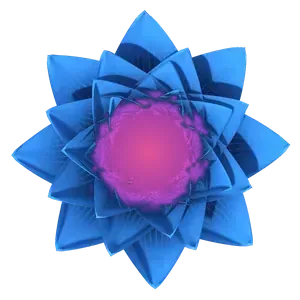
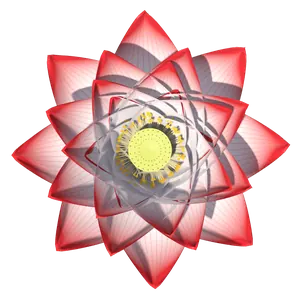
Lotus: volta a flor vermelha com miolo amarelo, 20% menor, no lugar em que aparecia
- Tira as ondas sonoras e o miolo rosa; a flor padrão passa a ser a vermelha com miolo amarelo
- Luz, raios e flor juntos, com o mesmo centro, no ponto onde a flor vermelha aparecia
- Tamanho explícito nos quadros (o Android desenhava a imagem no tamanho original, 300)
- Flor com 240 (antes aparecia com 300)

Claude-Session: https://claude.ai/code/session_01XJ8bKKm3arNhAerQKpBbQ5

diff --git a/src/components/LotusFlower.js b/src/components/LotusFlower.js
@@ -4,70 +4,21 @@ import FRAMES, { FAB, LIGHT } from './lotus/frames';
 
 // Flor de lótus da Lotus em 3D (quadros em assets/lotus, gerados por tools/lotus3d).
 
-const SIZE = 166; // a flor é vista de frente (de cima), formando um círculo no centro da caixa
-const STAGE = 250; // faixa da caixa onde a flor fica, sempre centralizada
-const HALO = Math.round(SIZE * 1.75); // luz branca atrás da flor
-const RAYS = Math.round(SIZE * 2.1); // raios de luz que giram devagar
-// Ajuste fino da posição na caixa (no celular ela aparecia um pouco à direita e para baixo).
+// Posição: a flor fica no ponto em que a Lotus vermelha aparecia no celular (aprovado pelo
+// Evandro), com a luz, os raios e a flor juntos, todos com o mesmo centro.
+const BOX = 166; // quadro de referência dentro da caixa (não mexer: define a posição)
+const ANCHOR = 150; // centro da flor dentro desse quadro
+const SIZE = 240; // tamanho da flor (20% menor do que aparecia)
+const STAGE = 250; // faixa da caixa onde a flor fica
+const HALO = Math.round(SIZE * 1.5); // luz branca atrás da flor
+const RAYS = Math.round(SIZE * 1.8); // raios de luz que giram devagar
 const NUDGE_X = -8;
 const NUDGE_Y = -14;
-// Ondas sonoras douradas em círculo, no lugar do antigo miolo amarelo. Cada barrinha nasce perto
-// do centro e cresce/diminui para fora, sempre dentro do miolo escuro (nunca passa desse limite).
-const WAVE_N = 28;
-const WAVE_IN = SIZE * 0.04; // onde as barrinhas começam (perto do centro)
-const WAVE_OUT = SIZE * 0.14; // limite de fora (borda do miolo escuro)
-const WAVE_L = WAVE_OUT - WAVE_IN; // comprimento máximo
-const WAVE_W = 2.4;
-// O miolo escuro da flor aberta fica um tiquinho à esquerda e para baixo do meio da imagem
-// (medido nos quadros: 148,3 x 152,2 de 300). As ondas usam esse ponto como centro.
-const WAVE_CX = SIZE * (148.3 / 300);
-const WAVE_CY = SIZE * (152.2 / 300);
-
-// O círculo de ondas cresce e diminui por igual, com uma tremulação leve em cada barrinha;
-// com voz elas crescem mais e mais rápido, em silêncio ficam baixinhas.
-const STEPS = 24;
-const T_IN = [...Array(STEPS + 1)].map((_, k) => k / STEPS);
-function SoundRing({ voice, active, show }) {
-  const t = useRef(new Animated.Value(0)).current;
-  useEffect(() => {
-    t.setValue(0);
-    const loop = Animated.loop(Animated.timing(t, { toValue: 1, duration: active ? 650 : 2400, easing: Easing.linear, useNativeDriver: true }));
-    loop.start();
-    return () => loop.stop();
-  }, [active]);
-  const amp = voice.interpolate({ inputRange: [0, 1], outputRange: [0.35, 1], extrapolate: 'clamp' });
-  const bars = useMemo(
-    () =>
-      [...Array(WAVE_N)].map((_, i) => {
-        // O círculo inteiro pulsa junto (fica sempre redondo e centrado) e cada barrinha
-        // ainda tremula um pouco, em 6 ondinhas iguais em volta, para parecer onda sonora.
-        const phase = (i * 6) / WAVE_N;
-        const pulse = t.interpolate({ inputRange: T_IN, outputRange: T_IN.map((k) => 0.5 + 0.5 * Math.sin(2 * Math.PI * k)) });
-        const ripple = t.interpolate({ inputRange: T_IN, outputRange: T_IN.map((k) => 0.5 + 0.5 * Math.sin(2 * Math.PI * (2 * k + phase))) });
-        const osc = Animated.add(Animated.multiply(pulse, 0.65), Animated.multiply(ripple, 0.35));
-        // tamanho de 0.2 (baixinha) a 1 (encosta no limite do miolo)
-        const s = Animated.add(0.2, Animated.multiply(Animated.multiply(osc, amp), 0.8)).interpolate({ inputRange: [0, 1], outputRange: [0.2, 1], extrapolate: 'clamp' });
-        // mantém a ponta de dentro parada: a barrinha cresce só para fora
-        const ty = s.interpolate({ inputRange: [0, 1], outputRange: [WAVE_L / 2, 0] });
-        return { deg: `${(i * 360) / WAVE_N}deg`, s, ty };
-      }),
-    [],
-  );
-  return (
-    <View pointerEvents="none" style={[StyleSheet.absoluteFill, { opacity: show ? 1 : 0 }]}>
-      {bars.map((b, i) => (
-        <View key={i} style={[styles.waveBox, { transform: [{ rotate: b.deg }] }]}>
-          <Animated.View style={[styles.wave, { transform: [{ translateY: b.ty }, { scaleY: b.s }] }]} />
-        </View>
-      ))}
-    </View>
-  );
-}
 
 // Cores da flor conforme o assunto da conversa.
 export const MOODS = {
-  // Padrão do Realys: preto por dentro, azul em volta e dourado no meio.
-  padrao: { back: '#0E1A3A', mid: '#2F86FF', front: '#7DB8FF', center: '#E2B649', shineBack: 'rgba(47,134,255,0.5)', shineMid: 'rgba(125,184,255,0.7)', glow: 'rgba(226,182,73,0.22)', seed: '#E2B649', icon: '#E2B649' },
+  // Padrão: a Lotus vermelha com o miolo amarelo.
+  padrao: { back: '#C62828', mid: '#E53935', front: '#FF8A80', center: '#FFE1DE', shineBack: 'rgba(255,170,160,0.5)', shineMid: 'rgba(255,215,210,0.7)', glow: 'rgba(248,113,113,0.30)', seed: '#FFF1C1', icon: '#C62828' },
   agro: { back: '#2E9E62', mid: '#4CBF7E', front: '#A7E8BF', center: '#E6F9EE', shineBack: 'rgba(190,240,205,0.55)', shineMid: 'rgba(225,250,232,0.7)', glow: 'rgba(110,231,160,0.24)', seed: '#FDE7A8', icon: '#1E7A48' },
   sos: { back: '#C62828', mid: '#E53935', front: '#FF8A80', center: '#FFE1DE', shineBack: 'rgba(255,170,160,0.5)', shineMid: 'rgba(255,215,210,0.7)', glow: 'rgba(248,113,113,0.30)', seed: '#FFF1C1', icon: '#C62828' },
   shop: { back: '#B8860B', mid: '#D4A017', front: '#F5D272', center: '#FFF5D6', shineBack: 'rgba(255,230,160,0.55)', shineMid: 'rgba(255,245,210,0.75)', glow: 'rgba(253,210,100,0.30)', seed: '#FFFFFF', icon: '#A8790A' },
@@ -97,7 +48,7 @@ function Pollen({ x, delay, active }) {
       style={[
         styles.pollen,
         {
-          left: SIZE / 2 - 2 + x,
+          left: ANCHOR - 2 + x,
           opacity: t.interpolate({ inputRange: [0, 0.2, 1], outputRange: [0, 1, 0] }),
           transform: [
             { translateY: t.interpolate({ inputRange: [0, 1], outputRange: [0, -90] }) },
@@ -266,10 +217,9 @@ export default function LotusFlower({ phase, level, onPress, visible = true, moo
                 source={src}
                 fadeDuration={0}
                 resizeMode="contain"
-                style={[StyleSheet.absoluteFill, { opacity: frame.kind === k && frame.i === i ? 1 : 0 }]}
+                style={[styles.frame, { opacity: frame.kind === k && frame.i === i ? 1 : 0 }]}
               />
             ))}
-            {mood === 'padrao' ? <SoundRing voice={voice} active={active} show={frame.kind === 'idle' || frame.i >= 4} /> : null}
           </Animated.View>
         </Pressable>
         {pollen.map((p, i) => (
@@ -362,13 +312,12 @@ const styles = StyleSheet.create({
   // Faixa da largura inteira da caixa; a flor fica no meio exato, na horizontal e na vertical.
   stage: { alignSelf: 'stretch', height: STAGE, alignItems: 'center', justifyContent: 'center' },
   // Luz, raios e flor ficam todos no mesmo quadro, com o mesmo centro exato.
-  center: { width: SIZE, height: SIZE, transform: [{ translateX: NUDGE_X }, { translateY: NUDGE_Y }] },
-  // caixa de giro com o centro exatamente no meio do miolo escuro
-  waveBox: { position: 'absolute', left: 0, top: 0, width: WAVE_CX * 2, height: WAVE_CY * 2 },
-  wave: { position: 'absolute', left: WAVE_CX - WAVE_W / 2, top: WAVE_CY - WAVE_IN - WAVE_L, width: WAVE_W, height: WAVE_L, borderRadius: WAVE_W / 2, backgroundColor: '#FFC928' },
-  halo: { position: 'absolute', width: HALO, height: HALO, left: (SIZE - HALO) / 2, top: (SIZE - HALO) / 2 },
-  rays: { position: 'absolute', width: RAYS, height: RAYS, left: (SIZE - RAYS) / 2, top: (SIZE - RAYS) / 2 },
-  wrap: { position: 'absolute', left: 0, top: 0, width: SIZE, height: SIZE },
+  center: { width: BOX, height: BOX, transform: [{ translateX: NUDGE_X }, { translateY: NUDGE_Y }] },
+  halo: { position: 'absolute', width: HALO, height: HALO, left: ANCHOR - HALO / 2, top: ANCHOR - HALO / 2 },
+  rays: { position: 'absolute', width: RAYS, height: RAYS, left: ANCHOR - RAYS / 2, top: ANCHOR - RAYS / 2 },
+  wrap: { position: 'absolute', left: ANCHOR - SIZE / 2, top: ANCHOR - SIZE / 2, width: SIZE, height: SIZE },
   flower: { position: 'absolute', left: 0, top: 0, width: SIZE, height: SIZE },
-  pollen: { position: 'absolute', top: SIZE / 2 - 2, width: 4, height: 4, borderRadius: 2, backgroundColor: '#FDE68A' },
+  // tamanho explícito em cada quadro: sem isso o Android desenhava a imagem no tamanho original
+  frame: { position: 'absolute', left: 0, top: 0, width: SIZE, height: SIZE },
+  pollen: { position: 'absolute', top: ANCHOR - 2, width: 4, height: 4, borderRadius: 2, backgroundColor: '#FDE68A' },
 });

diff --git a/tools/lotus3d/gen.py b/tools/lotus3d/gen.py
@@ -1,14 +1,14 @@
 import json, math, subprocess, os
-moods={'padrao':('#0E1A3A','#2F86FF','#030305'),'agro':('#F6FFF4','#3FA862','#E9F0B8'),'sos':('#FFF2F0','#D3262B','#F6E3B4'),'shop':('#FFFBEF','#D9A21B','#F8EDB0')}
+moods={'padrao':('#FFF2F0','#D3262B','#F6E3B4'),'agro':('#F6FFF4','#3FA862','#E9F0B8'),'sos':('#FFF2F0','#D3262B','#F6E3B4'),'shop':('#FFFBEF','#D9A21B','#F8EDB0')}
 jobs=[]
 os.makedirs('raw',exist_ok=True)
 for m,(body,tip,base) in moods.items():
     for i in range(8):
         t=i/7; b=0.5-0.5*math.cos(math.pi*t)
-        jobs.append({'f':f'raw/{m}_bloom_{i:02d}.png','o':{'b':b,'pad':False,'elev':90,'dist':5.2,'target':0.2,'body':body,'tip':tip,'base':base,'gold':m=='padrao'}})
+        jobs.append({'f':f'raw/{m}_bloom_{i:02d}.png','o':{'b':b,'pad':False,'elev':90,'dist':5.2,'target':0.2,'body':body,'tip':tip,'base':base,'gold':False}})
     for i in range(6):
         a=2*math.pi*i/6
-        jobs.append({'f':f'raw/{m}_idle_{i:02d}.png','o':{'b':1-0.035*(1-math.cos(a)),'pad':False,'elev':90,'dist':5.2,'target':0.2,'rot':2.5*math.sin(a),'body':body,'tip':tip,'base':base,'gold':m=='padrao'}})
+        jobs.append({'f':f'raw/{m}_idle_{i:02d}.png','o':{'b':1-0.035*(1-math.cos(a)),'pad':False,'elev':90,'dist':5.2,'target':0.2,'rot':2.5*math.sin(a),'body':body,'tip':tip,'base':base,'gold':False}})
 for i,b in enumerate([0.55,1.0]):
     jobs.append({'f':f'raw/fab_{i}.png','o':{'b':b,'pad':False,'elev':90,'dist':5.2,'target':0.2,'body':'#163A8C','tip':'#4FA3FF','base':'#07080D','gold':True}})
 open('jobs.json','w').write(json.dumps(jobs))

diff --git a/tools/lotus3d/render.py b/tools/lotus3d/render.py
@@ -16,11 +16,8 @@ with sync_playwright() as p:
         # recorte quadrado fixo e centrado: a flor fica sempre no meio
         im = im.crop((64, 64, 960, 960)).resize((300, 300), Image.LANCZOS)
         # dourado do miolo mais vivo (flor padrão e botão flutuante)
-        if name.startswith(('padrao_', 'fab_')):
+        if name.startswith('fab_'):
             im = clear_stamens(vivid_gold(im), bars=name.startswith('fab_'))
-        # sem o círculo dourado no meio da flor padrão: no lugar dele o app desenha ondas sonoras
-        if name.startswith('padrao_'):
-            im = pink_heart(clear_disk(im))
         im.save(os.path.join(OUT, name), 'WEBP', quality=78, method=6)
         print(name)
     b.close()
